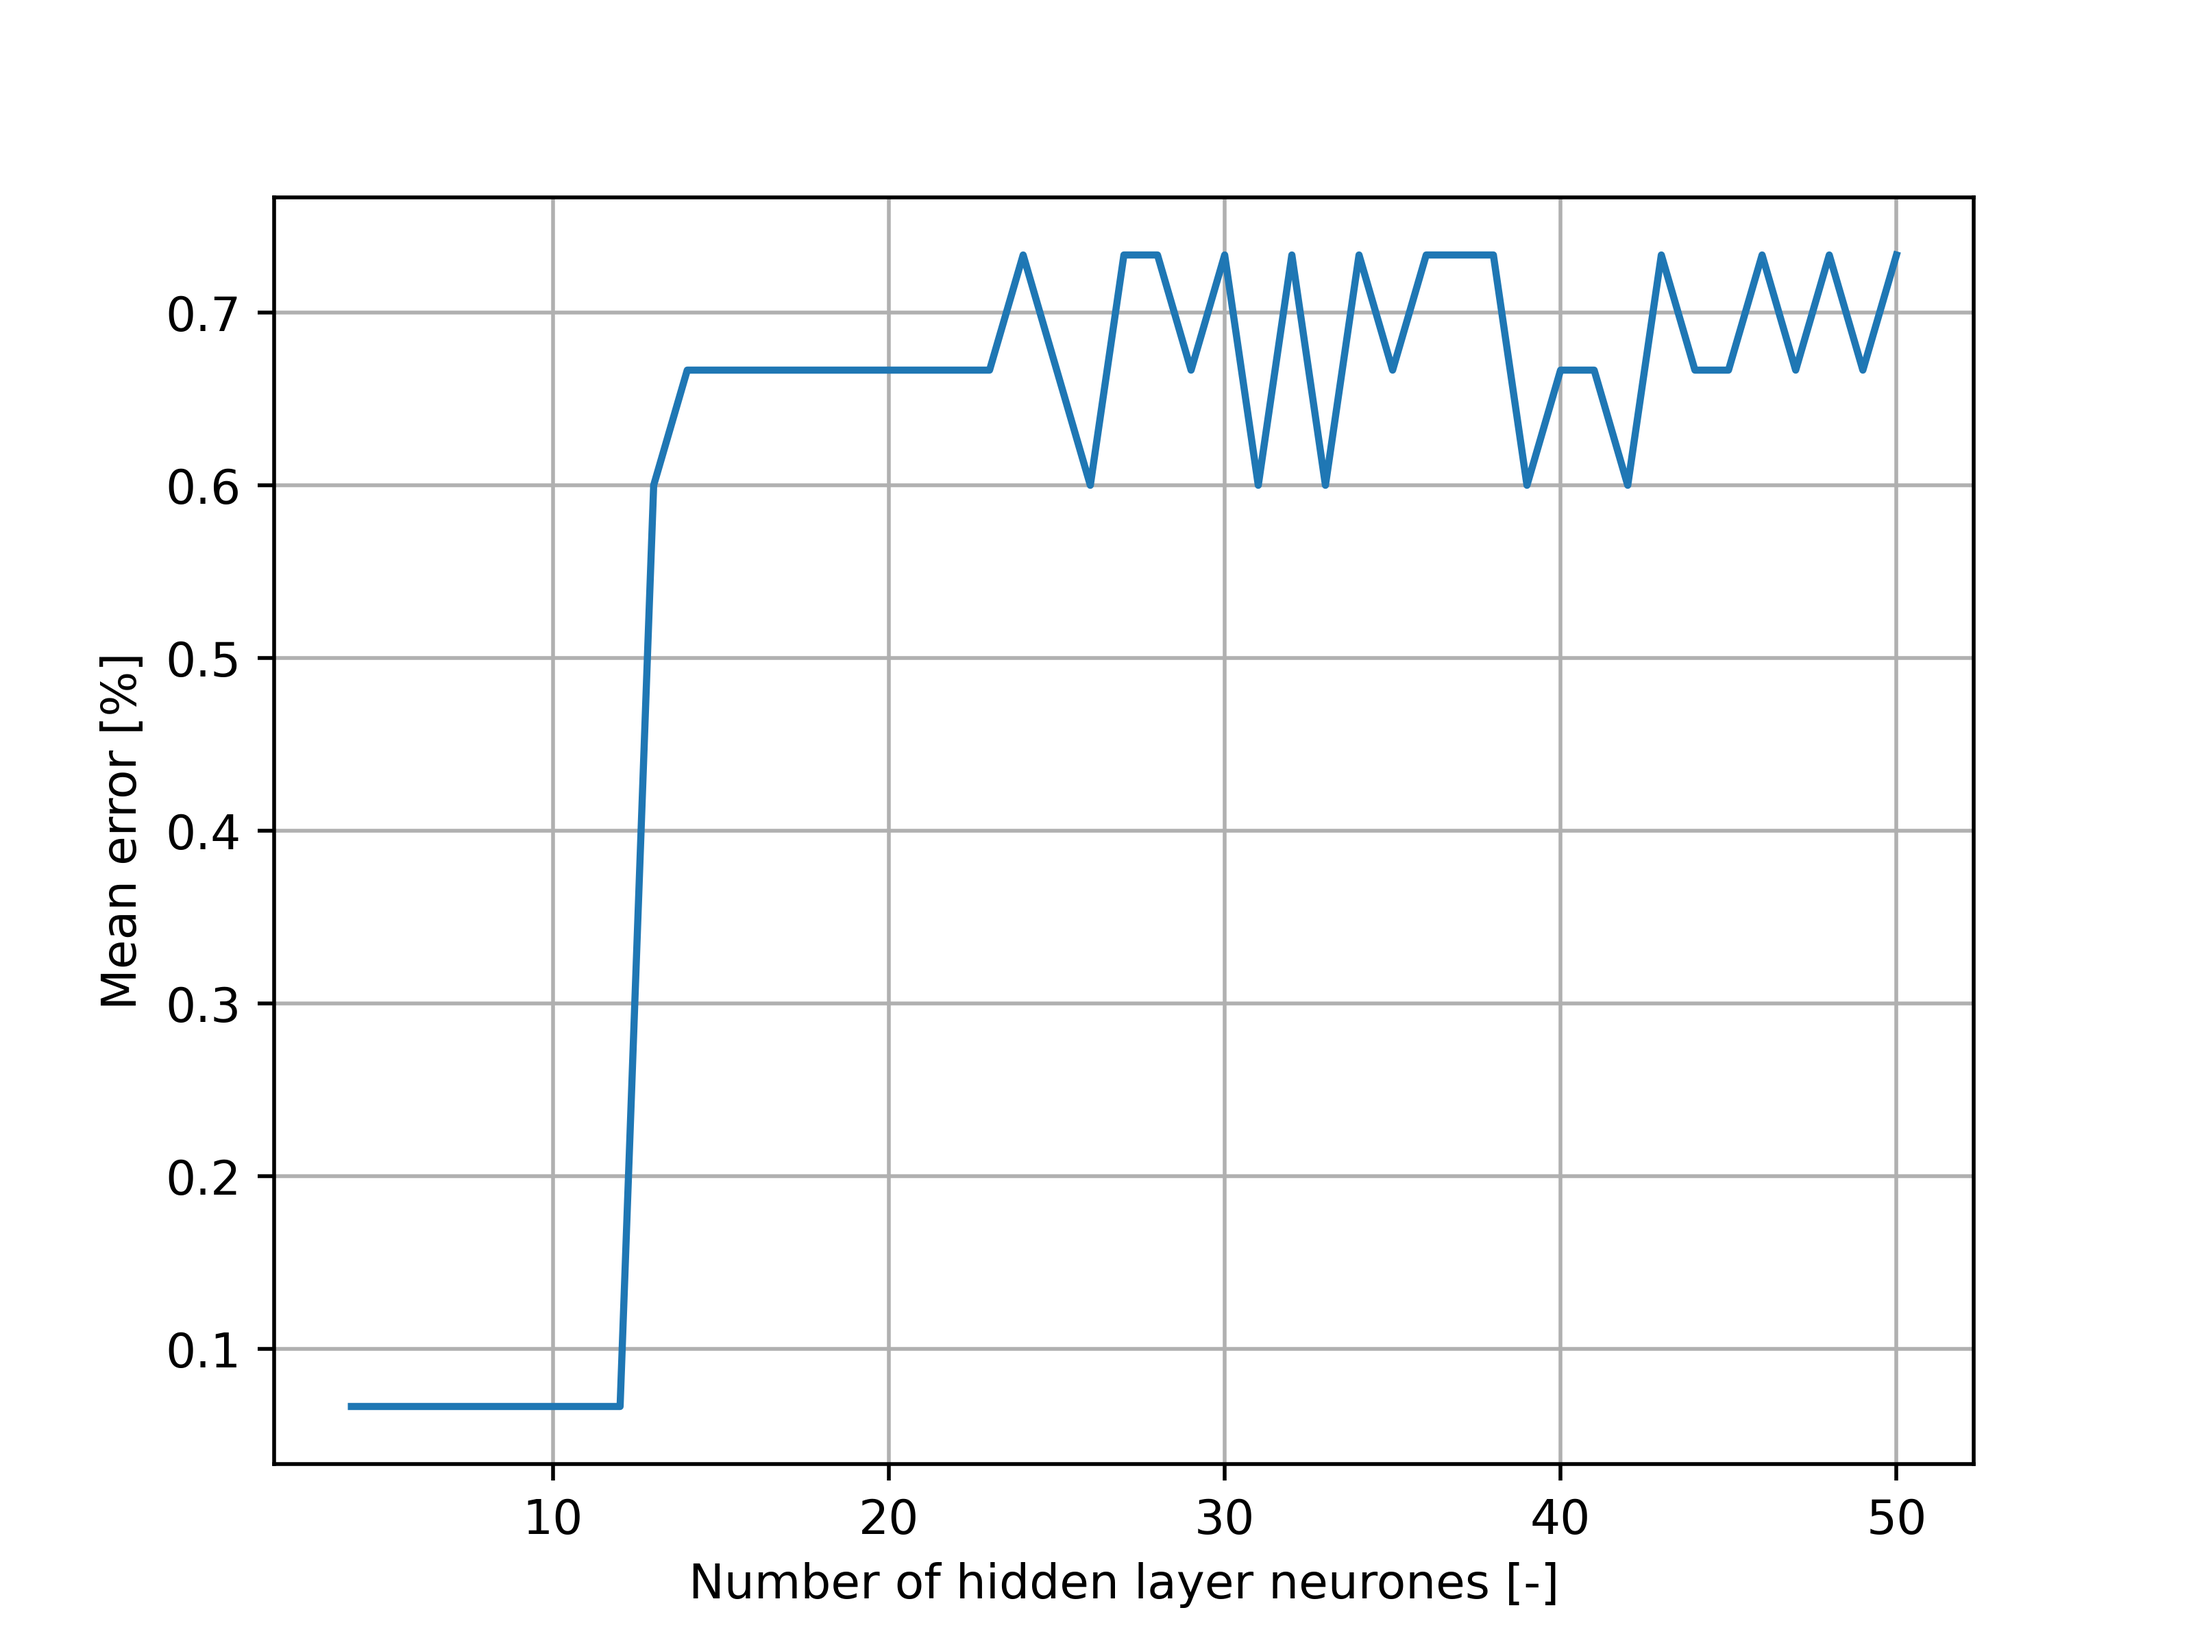
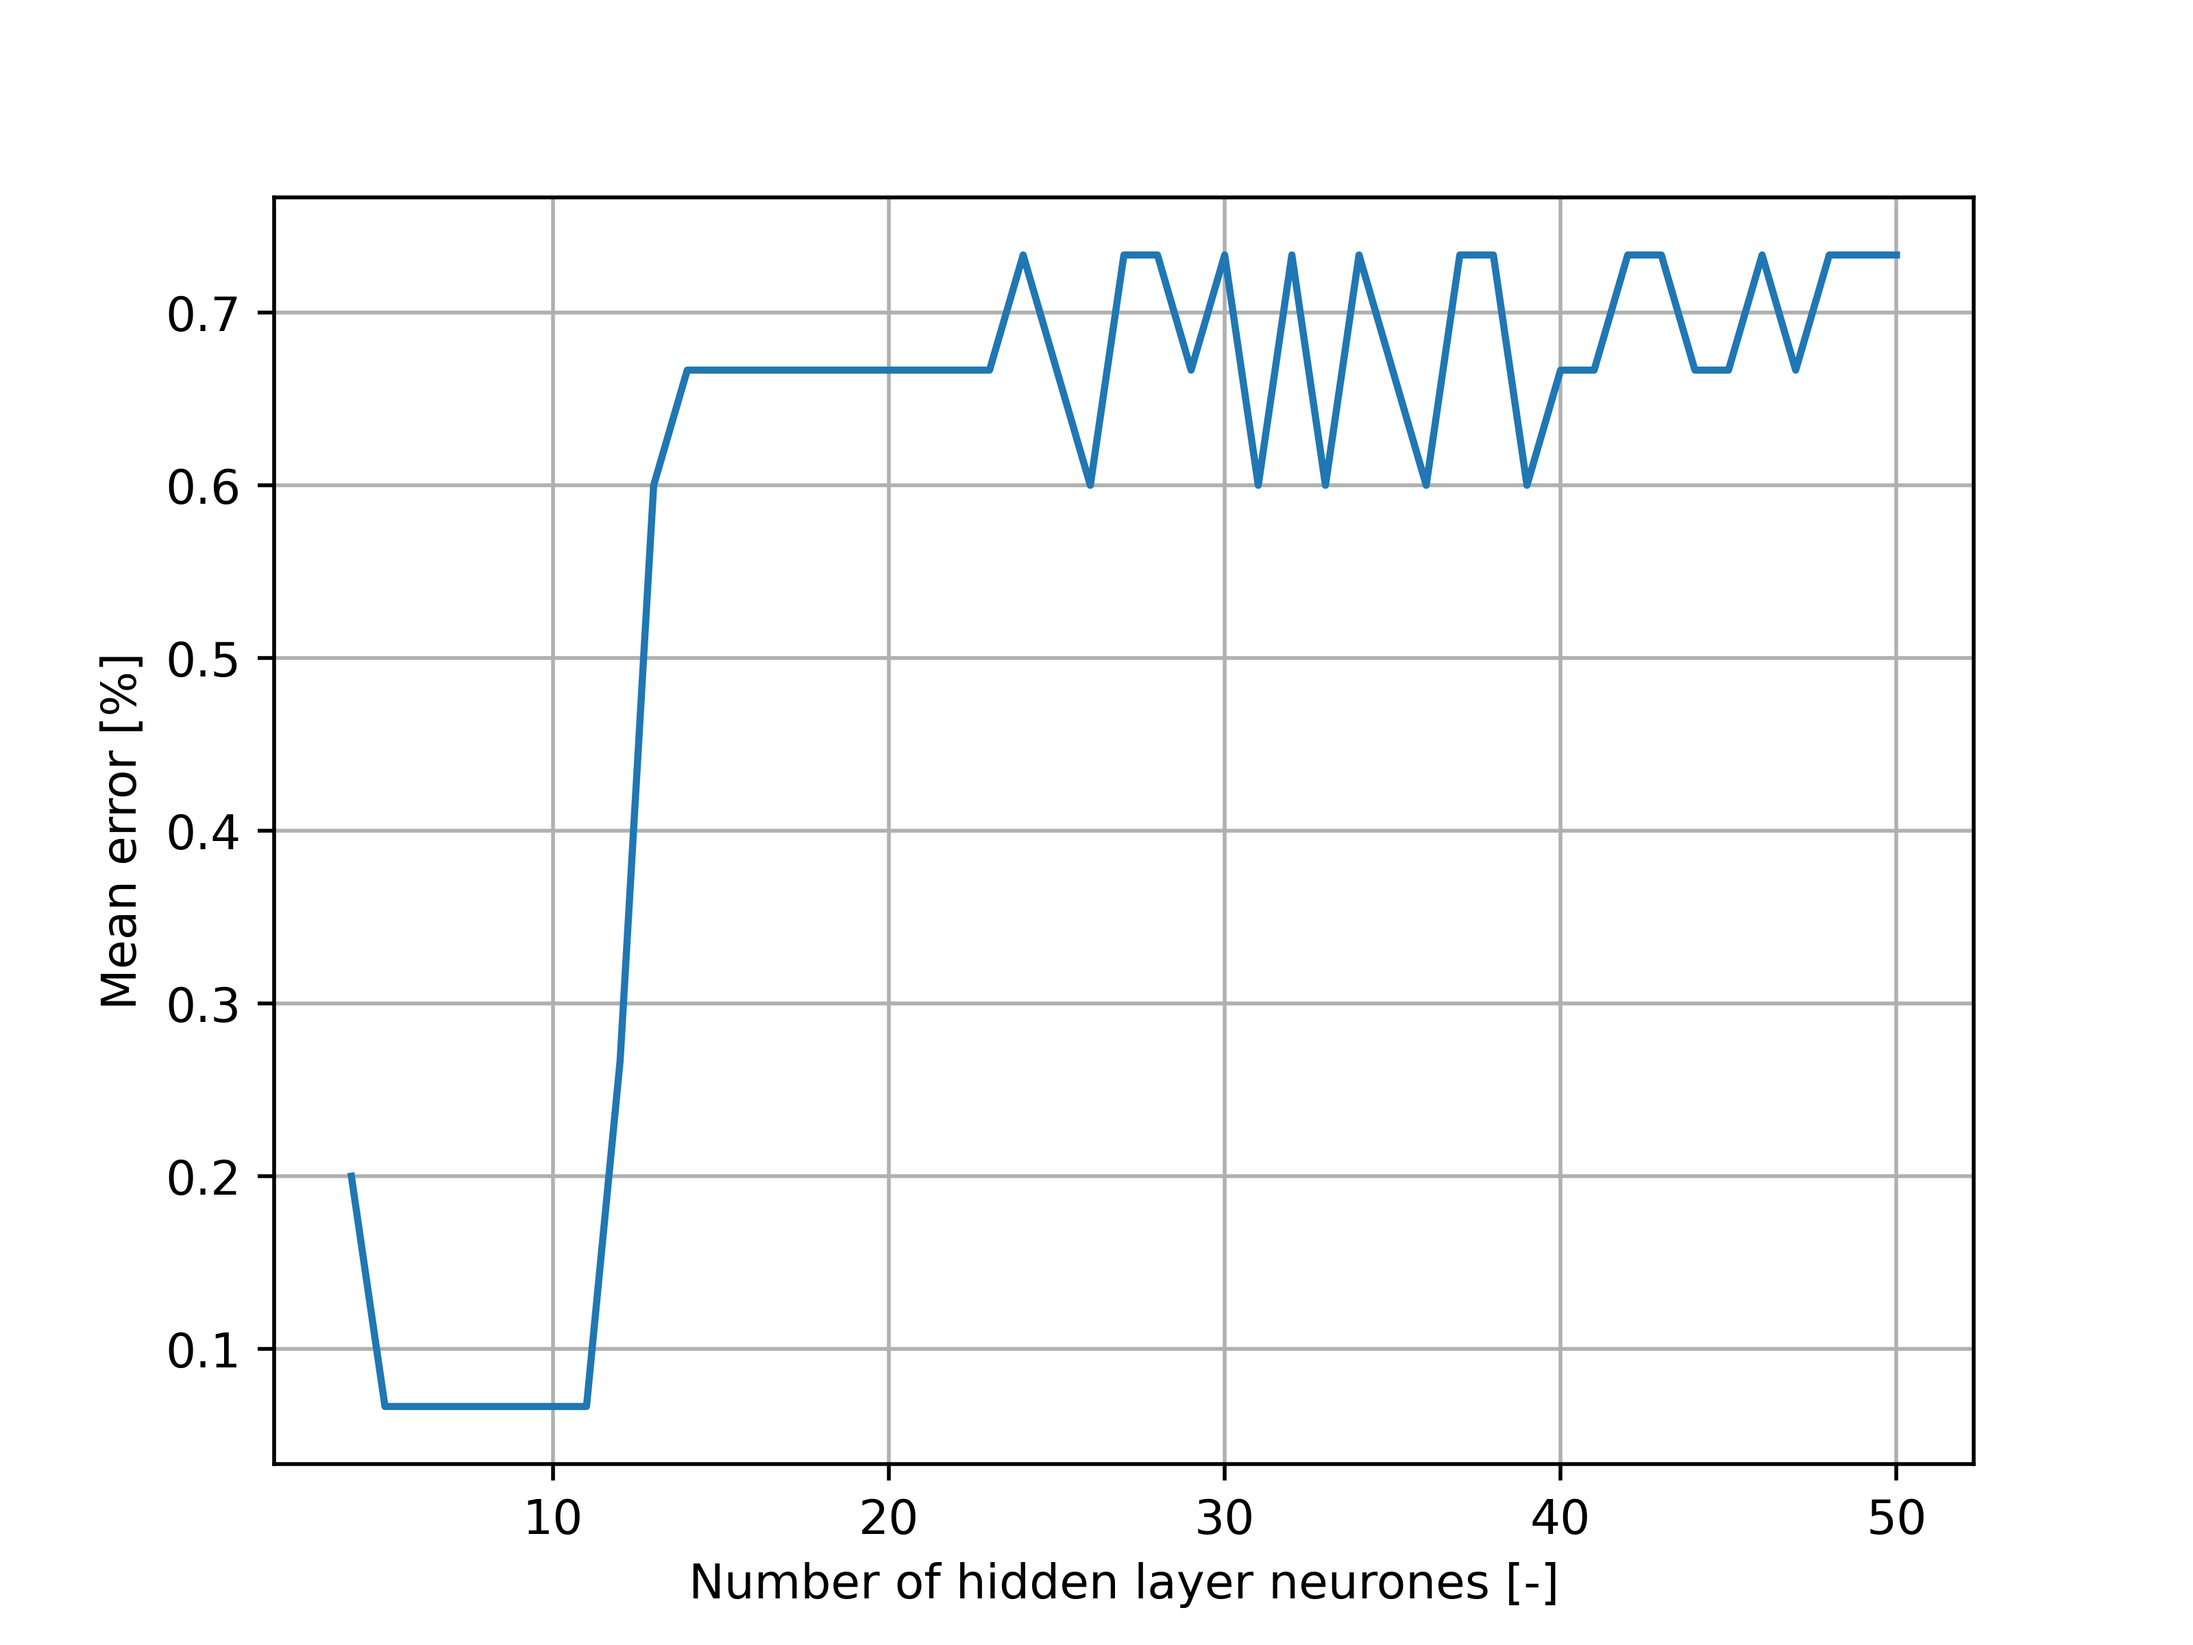
heahg

diff --git a/Projet Final AI/Code/NeuralNet.py b/Projet Final AI/Code/NeuralNet.py
@@ -313,7 +313,9 @@ class NeuralNet(Classifier):
 
         self.training_elapse_time = time.time() - start_tr_time
         self.prediction_elapse_times.clear()
-        return self.test(train_set, train_labels, verbose, displayArgs)
+        if kwargs.get("retest", True):
+            return self.test(train_set, train_labels, verbose, displayArgs)
+
 
     def test2(self, test_set, test_labels, verbose: bool = True, displayArgs: dict = None) \
             -> (np.ndarray, float, float, float):
@@ -325,7 +327,7 @@ class NeuralNet(Classifier):
             pred, res = self.predict(test_set[i,], test_labels[i])
             to_return[i] = res
             preds[i] = pred
-        return preds, to_return
+        return float(np.sum(to_return))/float(test_labels.size)
 
     def predict(self, example, label) -> (int, bool):
         start_pr_time = time.time()
@@ -367,9 +369,9 @@ class NeuralNet(Classifier):
         for i in range(4, 51):
             nn = NeuralNet(3, i, np.unique(train_label).size)
             for j in range(k - 1):
-                nn.train(k_split_train[j], k_split_train_labels[j], verbose=False)
-            _, a, _, _ = nn.test(k_split_train[k - 1], k_split_train_labels[k - 1], False)
-            mean_errors.append(1.0 - a / 100.0)
+                nn.train(k_split_train[j], k_split_train_labels[j], retest=False,verbose=False)
+            a = nn.test2(k_split_train[k - 1], k_split_train_labels[k - 1], False)
+            mean_errors.append(1.0 - a)
             n_neurone.append(i)
         if plot_results:
             plt.plot(n_neurone, mean_errors)
@@ -394,9 +396,9 @@ class NeuralNet(Classifier):
         count = 1
         for i, nn in enumerate(to_test):
             for j in range(k - 1):
-                nn.train(k_split_train[j], k_split_train_labels[j], verbose=False)
-            _, a, _, _ = nn.test(k_split_train[k - 1], k_split_train_labels[k - 1], False)
-            mean_errors.append(1.0 - a / 100.0)
+                nn.train(k_split_train[j], k_split_train_labels[j], retest=False, verbose=False)
+            a = nn.test2(k_split_train[k - 1], k_split_train_labels[k - 1], False)
+            mean_errors.append(1.0 - a)
             n_layer.append(count)
             count += 1
             if plot_results:
@@ -426,7 +428,7 @@ if __name__ == "__main__":
 
     warnings.filterwarnings("ignore")
 
-    train_ratio_nn: float = 0.5
+    train_ratio_nn: float = 0.1
     prn = 1  # number of training per training_size for the compute of the Learning curve
 
     confusionMatrixList: list = list()
@@ -440,7 +442,7 @@ if __name__ == "__main__":
 
     iris_train, iris_train_labels, iris_test, iris_test_labels = load_datasets.load_iris_dataset(train_ratio_nn)
     nbr_neurone_iris = NeuralNet.get_best_number_of_hidden_neurone(iris_train, iris_train_labels, save_name="iris_nn")
-    nbr_layer_iris = NeuralNet.get_best_number_of_layer(iris_train, iris_train_labels, nbr_neurone_iris)
+    nbr_layer_iris = NeuralNet.get_best_number_of_layer(iris_train, iris_train_labels,iris_test, iris_test_labels, nbr_neurone_iris)
     iris_nn = NeuralNet(nbr_layer_iris, nbr_neurone_iris, np.unique(iris_train_labels).size)
     iris_nn.plot_learning_curve(iris_train, iris_train_labels, iris_test, iris_test_labels, save_name="iris_NN",
                                 prn=prn)
@@ -464,7 +466,7 @@ if __name__ == "__main__":
     cong_train = util.replaceMissingValues(cong_train, CongressionalValue.MISSING_VALUE.value)
     cong_test = util.replaceMissingValues(cong_test, CongressionalValue.MISSING_VALUE.value)
     nbr_neurone_cong = NeuralNet.get_best_number_of_hidden_neurone(cong_train, cong_train_labels, save_name="cong_nn")
-    nbr_layer_cong = NeuralNet.get_best_number_of_layer(cong_train, cong_train_labels, nbr_neurone_cong)
+    nbr_layer_cong = NeuralNet.get_best_number_of_layer(cong_train, cong_train_labels,cong_test ,cong_test_labels,nbr_neurone_cong)
     cong_dt = NeuralNet(nbr_layer_cong, nbr_neurone_cong, np.unique(cong_train_labels).size)
     cong_dt.plot_learning_curve(cong_train, cong_train_labels, cong_test, cong_test_labels, save_name="cong_NN",
                                 prn=prn)
@@ -485,7 +487,7 @@ if __name__ == "__main__":
         monks_train, monks_train_labels, monks_test, monks_test_labels = load_datasets.load_monks_dataset(i + 1)
         nbr_neurone_monks = NeuralNet.get_best_number_of_hidden_neurone(monks_train, monks_train_labels,
                                                                         save_name=f"monks{i + 1}_NN")
-        nbr_layer_monks = NeuralNet.get_best_number_of_layer(monks_train, monks_train_labels, nbr_neurone_monks)
+        nbr_layer_monks = NeuralNet.get_best_number_of_layer(monks_train, monks_train_labels ,monks_test, monks_test_labels, nbr_neurone_monks)
         monks_nn = NeuralNet(nbr_layer_monks, nbr_neurone_monks, np.unique(monks_train_labels).size)
 
         monks_nn.plot_learning_curve(monks_train, monks_train_labels,
